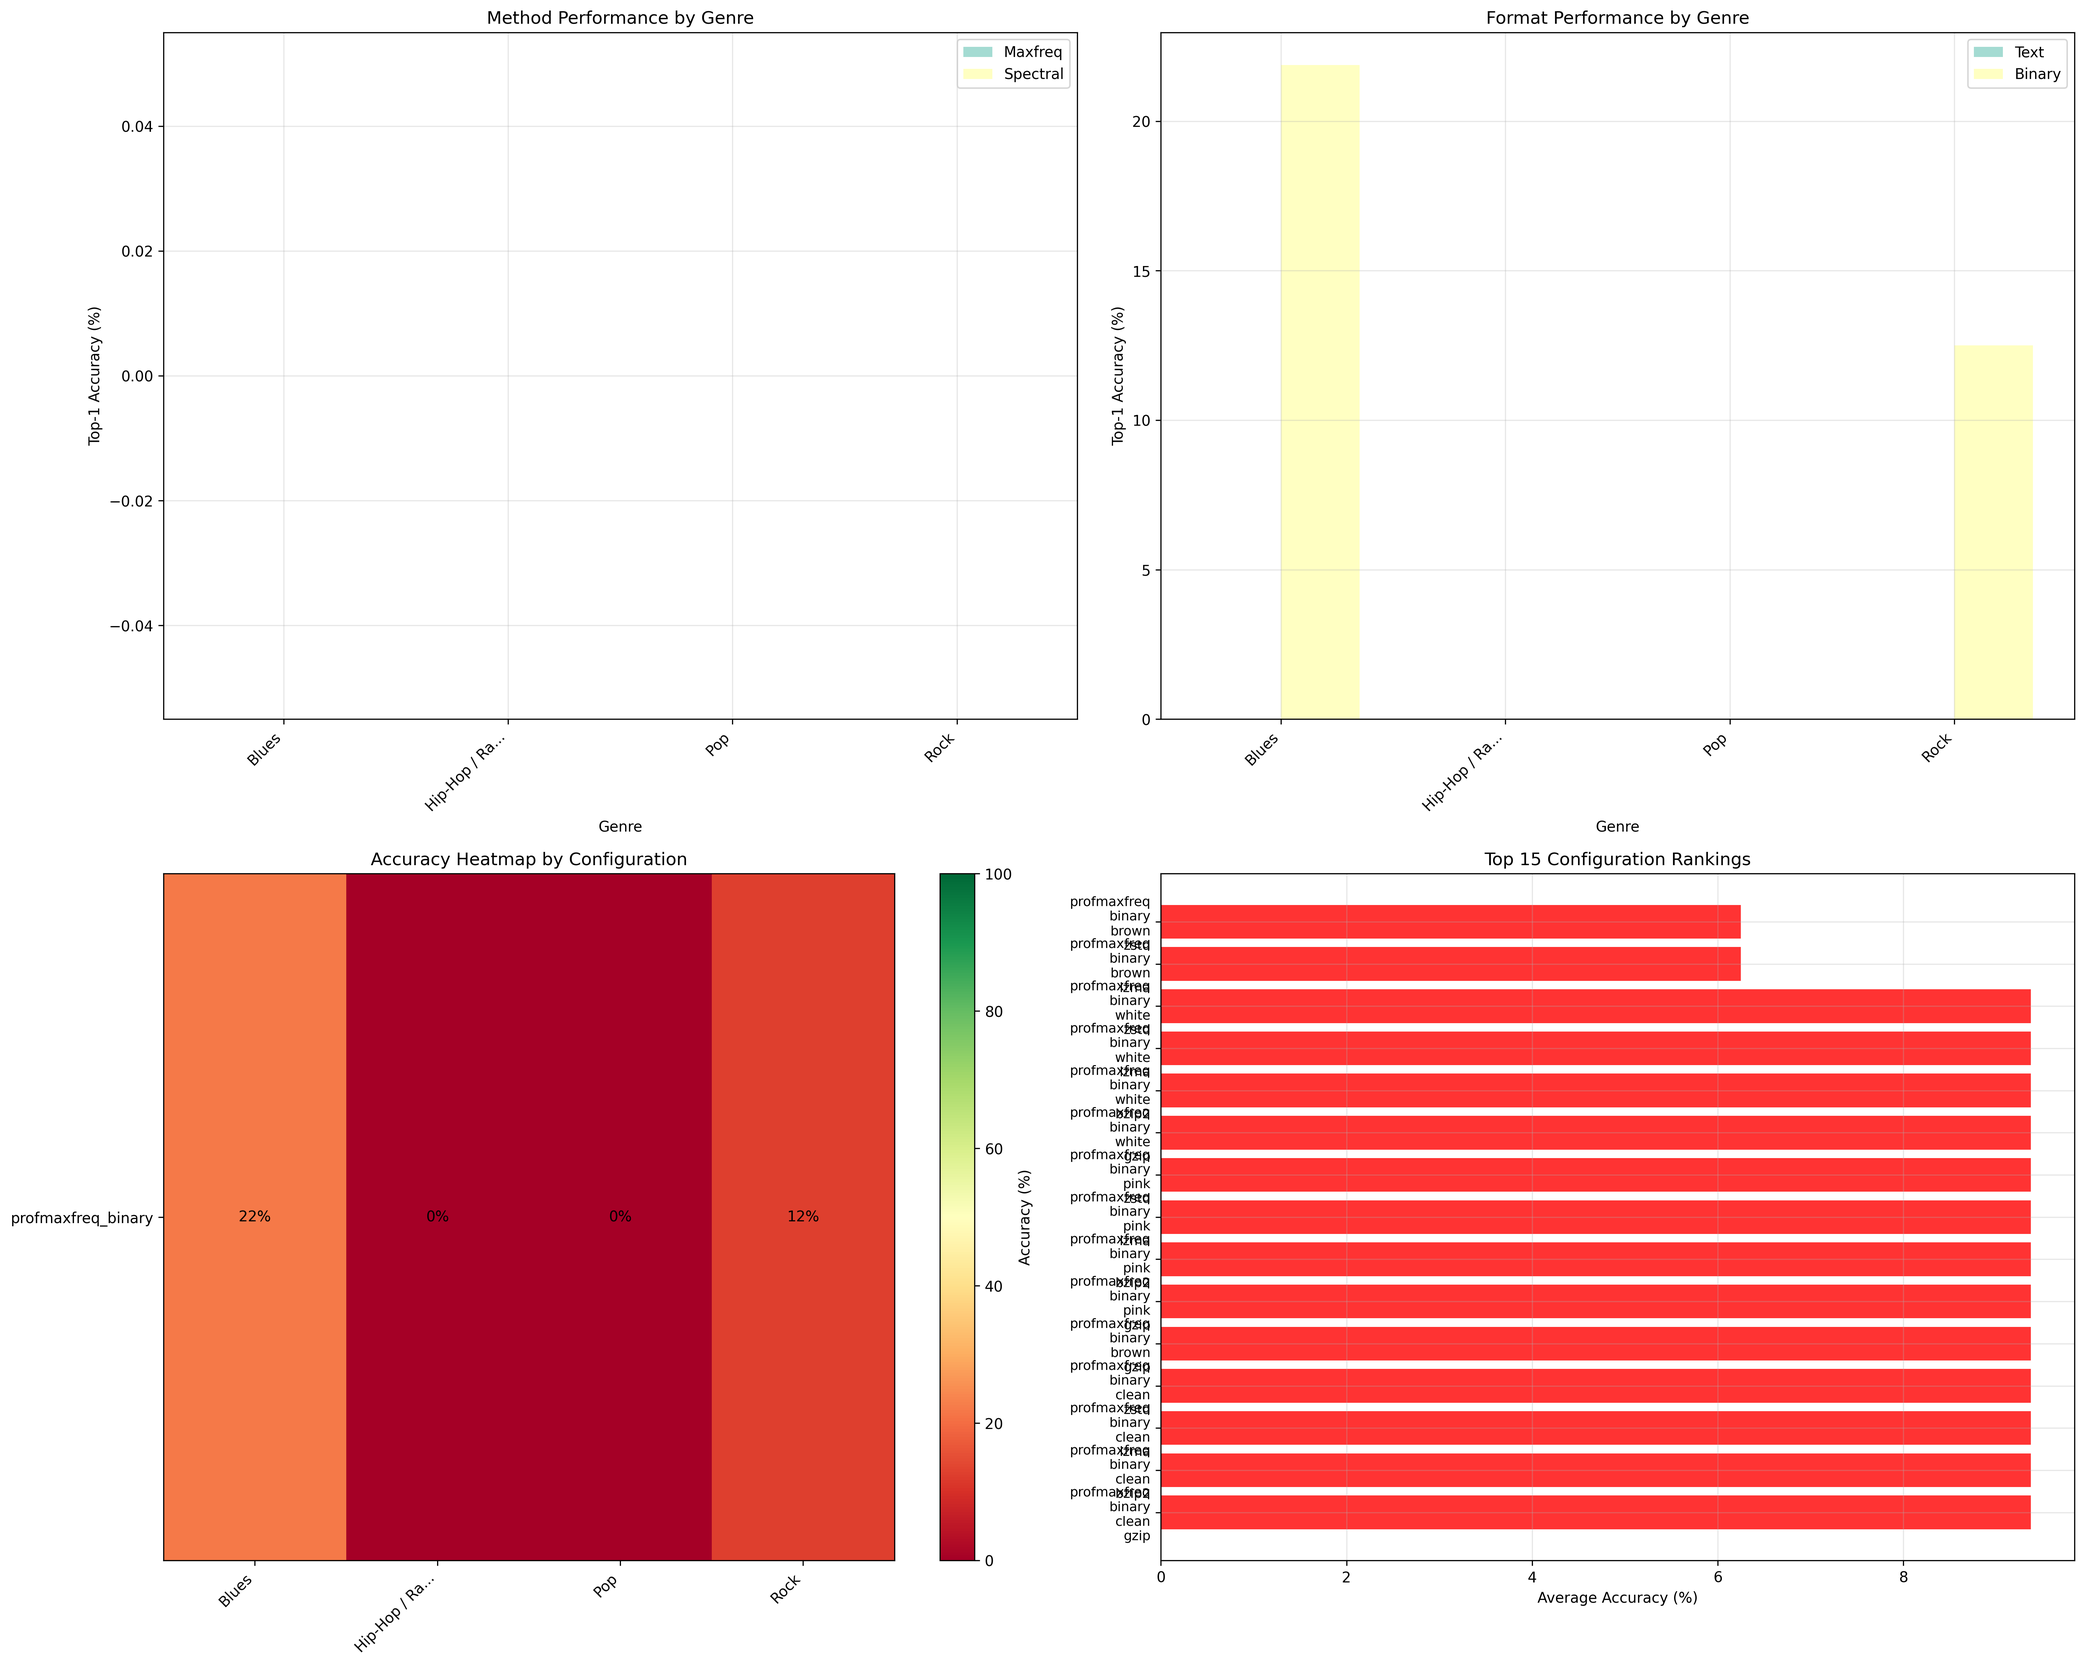
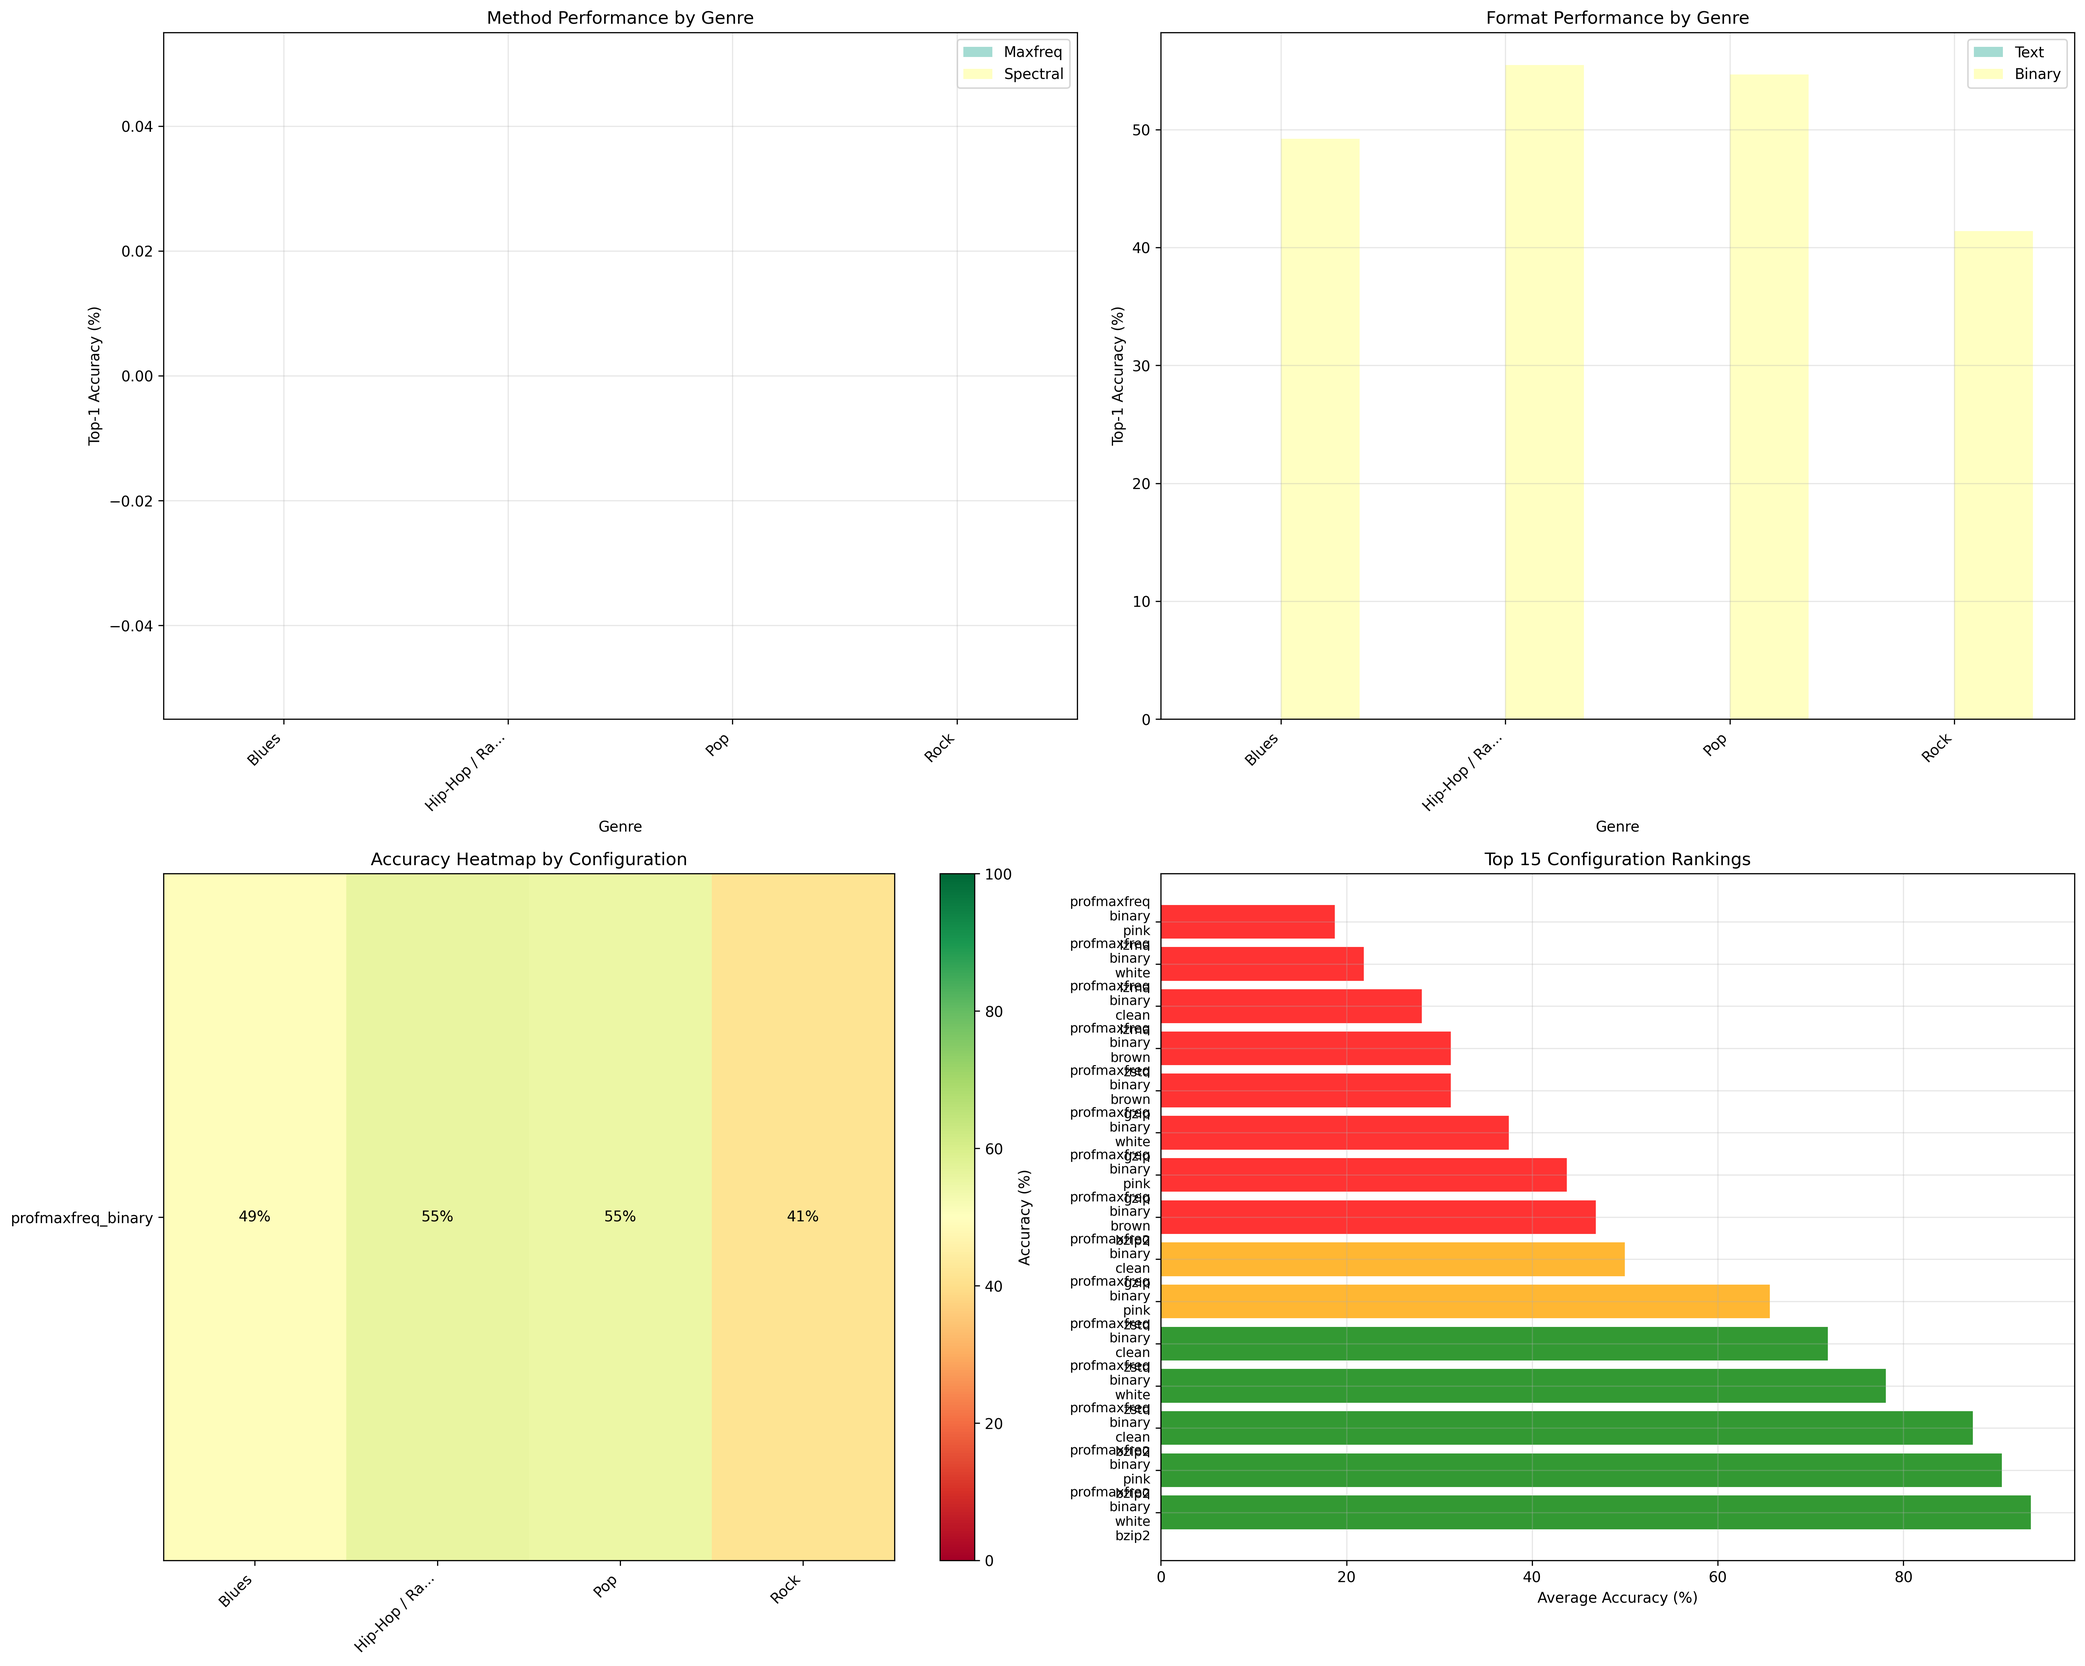
update with  samples rate conversion

diff --git a/src/core/FeatureExtractor.cpp b/src/core/FeatureExtractor.cpp
@@ -3,6 +3,7 @@
 #include "../../include/core/MaxFreqExtractor.h"
 #include "../../include/core/ProfMaxFreqExtractor.h"
 #include "../../include/core/WAVReader.h"
+#include "../../include/core/Resampler.h"
 
 #include <iostream>
 #include <fstream>
@@ -110,6 +111,40 @@ bool extractFeaturesFromFile(
         samples16bit[j] = static_cast<int16_t>(samples[j]);
     }
     
+    // For profmaxfreq -> need to resample to 44.1kHz if necessary
+    vector<int16_t> finalSamples = samples16bit;
+    int finalSampleRate = sampleRate;
+    
+    if (method == "profmaxfreq" && sampleRate != 44100) {
+        {
+            lock_guard<mutex> lock(coutMutex);
+            cout << "  Resampling from " << sampleRate << " Hz to 44100 Hz for profmaxfreq" << endl;
+        }
+        
+        // Convert samples to int32_t for resampling
+        vector<int32_t> samples32bit(samples16bit.begin(), samples16bit.end());
+        
+        // Resample to 44.1kHz
+        vector<int32_t> resampledSamples32 = Resampler::resample(samples32bit, sampleRate, 44100);
+        
+        // Convert back to int16_t
+        finalSamples.resize(resampledSamples32.size());
+        for (size_t j = 0; j < resampledSamples32.size(); j++) {
+            // Clamp to int16_t range
+            int32_t sample = resampledSamples32[j];
+            if (sample > INT16_MAX) sample = INT16_MAX;
+            if (sample < INT16_MIN) sample = INT16_MIN;
+            finalSamples[j] = static_cast<int16_t>(sample);
+        }
+        
+        finalSampleRate = 44100;
+        
+        {
+            lock_guard<mutex> lock(coutMutex);
+            cout << "  Resampling complete: " << finalSamples.size() << " samples at 44100 Hz" << endl;
+        }
+    }
+    
     // Extract features
     string featData;
     std::vector<std::vector<float>> featDataBin; // changed from vector<float>
@@ -117,21 +152,21 @@ bool extractFeaturesFromFile(
     
     if (method == "spectral") {
         if (useBinary) {
-            featDataBin = specExt.extractFeaturesBinary(samples16bit, channels, frameSize, hopSize, sampleRate);
+            featDataBin = specExt.extractFeaturesBinary(finalSamples, channels, frameSize, hopSize, finalSampleRate);
         } else {
-            featData = specExt.extractFeatures(samples16bit, channels, frameSize, hopSize, sampleRate);
+            featData = specExt.extractFeatures(finalSamples, channels, frameSize, hopSize, finalSampleRate);
         }
     } else if (method == "maxfreq") {
         if (useBinary) {
-            featDataBin = mfExt.extractFeaturesBinary(samples16bit, channels, frameSize, hopSize, sampleRate);
+            featDataBin = mfExt.extractFeaturesBinary(finalSamples, channels, frameSize, hopSize, finalSampleRate);
         } else {
-            featData = mfExt.extractFeatures(samples16bit, channels, frameSize, hopSize, sampleRate);
+            featData = mfExt.extractFeatures(finalSamples, channels, frameSize, hopSize, finalSampleRate);
         }
     } else if (method == "profmaxfreq") {
         if (useBinary) {
-            featDataBin = profExt.extractFeaturesBinary(samples16bit, channels, frameSize, hopSize, sampleRate);
+            featDataBin = profExt.extractFeaturesBinary(finalSamples, channels, frameSize, hopSize, finalSampleRate);
         } else {
-            featData = profExt.extractFeatures(samples16bit, channels, frameSize, hopSize, sampleRate);
+            featData = profExt.extractFeatures(finalSamples, channels, frameSize, hopSize, finalSampleRate);
         }
     }
     

diff --git a/src/utils/Resampler.cpp b/src/utils/Resampler.cpp
@@ -1,0 +1,69 @@
+#include "../../include/utils/Resampler.h"
+#include <iostream>
+#include <cmath>
+
+using namespace std;
+
+vector<int32_t> Resampler::resample(const vector<int32_t>& inputSamples, 
+                                   int inputSampleRate, 
+                                   int outputSampleRate) {
+    if (inputSampleRate == outputSampleRate) {
+        // No resampling needed
+        return inputSamples;
+    }
+
+    if (inputSamples.empty()) {
+        cerr << "Warning: Empty input samples for resampling" << endl;
+        return {};
+    }
+
+    // Calculate resampling ratio
+    double ratio = static_cast<double>(inputSampleRate) / outputSampleRate;
+    
+    // Calculate output size
+    size_t outputSize = static_cast<size_t>(inputSamples.size() / ratio);
+    
+    vector<int32_t> outputSamples;
+    outputSamples.reserve(outputSize);
+    
+    cout << "Resampling from " << inputSampleRate << " Hz to " << outputSampleRate 
+         << " Hz (ratio: " << ratio << ")" << endl;
+    cout << "Input samples: " << inputSamples.size() << ", Output samples: " << outputSize << endl;
+    
+    // Linear interpolation resampling
+    for (size_t i = 0; i < outputSize; i++) {
+        double sourceIndex = i * ratio;
+        size_t lowerIndex = static_cast<size_t>(floor(sourceIndex));
+        size_t upperIndex = lowerIndex + 1;
+        
+        if (upperIndex >= inputSamples.size()) {
+            upperIndex = inputSamples.size() - 1;
+            lowerIndex = upperIndex;
+        }
+        
+        if (lowerIndex == upperIndex) {
+            // No interpolation needed
+            outputSamples.push_back(inputSamples[lowerIndex]);
+        } else {
+            // Linear interpolation
+            double fraction = sourceIndex - lowerIndex;
+            int32_t interpolatedSample = interpolate(inputSamples[lowerIndex], 
+                                                   inputSamples[upperIndex], 
+                                                   fraction);
+            outputSamples.push_back(interpolatedSample);
+        }
+    }
+    
+    return outputSamples;
+}
+
+int32_t Resampler::interpolate(int32_t sample1, int32_t sample2, double fraction) {
+    // Linear interpolation: result = sample1 + fraction * (sample2 - sample1)
+    double result = sample1 + fraction * (sample2 - sample1);
+    
+    // Clamp to int32_t range to prevent overflow
+    if (result > INT32_MAX) return INT32_MAX;
+    if (result < INT32_MIN) return INT32_MIN;
+    
+    return static_cast<int32_t>(result);
+}

diff --git a/src/core/Resampler.cpp b/src/core/Resampler.cpp
@@ -1,0 +1,69 @@
+#include "../../include/core/Resampler.h"
+#include <iostream>
+#include <cmath>
+
+using namespace std;
+
+vector<int32_t> Resampler::resample(const vector<int32_t>& inputSamples, 
+                                   int inputSampleRate, 
+                                   int outputSampleRate) {
+    if (inputSampleRate == outputSampleRate) {
+        // No resampling needed
+        return inputSamples;
+    }
+
+    if (inputSamples.empty()) {
+        cerr << "Warning: Empty input samples for resampling" << endl;
+        return {};
+    }
+
+    // Calculate resampling ratio
+    double ratio = static_cast<double>(inputSampleRate) / outputSampleRate;
+    
+    // Calculate output size
+    size_t outputSize = static_cast<size_t>(inputSamples.size() / ratio);
+    
+    vector<int32_t> outputSamples;
+    outputSamples.reserve(outputSize);
+    
+    cout << "Resampling from " << inputSampleRate << " Hz to " << outputSampleRate 
+         << " Hz (ratio: " << ratio << ")" << endl;
+    cout << "Input samples: " << inputSamples.size() << ", Output samples: " << outputSize << endl;
+    
+    // Linear interpolation resampling
+    for (size_t i = 0; i < outputSize; i++) {
+        double sourceIndex = i * ratio;
+        size_t lowerIndex = static_cast<size_t>(floor(sourceIndex));
+        size_t upperIndex = lowerIndex + 1;
+        
+        if (upperIndex >= inputSamples.size()) {
+            upperIndex = inputSamples.size() - 1;
+            lowerIndex = upperIndex;
+        }
+        
+        if (lowerIndex == upperIndex) {
+            // No interpolation needed
+            outputSamples.push_back(inputSamples[lowerIndex]);
+        } else {
+            // Linear interpolation
+            double fraction = sourceIndex - lowerIndex;
+            int32_t interpolatedSample = interpolate(inputSamples[lowerIndex], 
+                                                   inputSamples[upperIndex], 
+                                                   fraction);
+            outputSamples.push_back(interpolatedSample);
+        }
+    }
+    
+    return outputSamples;
+}
+
+int32_t Resampler::interpolate(int32_t sample1, int32_t sample2, double fraction) {
+    // Linear interpolation: result = sample1 + fraction * (sample2 - sample1)
+    double result = sample1 + fraction * (sample2 - sample1);
+    
+    // Clamp to int32_t range to prevent overflow
+    if (result > INT32_MAX) return INT32_MAX;
+    if (result < INT32_MIN) return INT32_MIN;
+    
+    return static_cast<int32_t>(result);
+}

diff --git a/scripts/generate_plots_genres.py b/scripts/generate_plots_genres.py
@@ -26,7 +26,7 @@ class GenreAnalyzer:
         self.songs_genre_file = Path(songs_genre_file)
         
         # Configuration
-        self.methods = ["maxfreq", "spectral"]
+        self.methods = ["profmaxfreq", "maxfreq", "spectral"]
         self.formats = ["text", "binary"]
         self.noises = ["clean", "brown", "pink", "white"]
         self.compressors = ["gzip", "bzip2", "lzma", "zstd"]
@@ -150,7 +150,7 @@ class GenreAnalyzer:
             for format_type in self.formats:
                 for noise in self.noises:
                     for compressor in self.compressors:
-                        metrics_file = (self.results_dir / "compressors" / "youtube" / method / 
+                        metrics_file = (self.results_dir / "compressors" / "youtube_small" / method / 
                                        format_type / f"{noise}_{compressor}" / 
                                        f"accuracy_metrics_{compressor}.json")
                         
@@ -833,7 +833,7 @@ class GenreAnalyzer:
 def main():
     results_dir = Path("results/")
     songs_genre_file = Path("songs_genre.txt")
-    output_dir = Path("results/youtube_genre_analysis")
+    output_dir = Path("results/youtube_small_genre_analysis")
     
     if not results_dir.exists():
         print(f"Error: Results directory not found: {results_dir}")

diff --git a/include/core/Resampler.h b/include/core/Resampler.h
@@ -1,0 +1,36 @@
+#ifndef RESAMPLER_H
+#define RESAMPLER_H
+
+#include <vector>
+#include <cstdint>
+
+using namespace std;
+
+/**
+ * @brief Simple audio resampler for converting sample rates
+ */
+class Resampler {
+public:
+    /**
+     * @brief Resample audio data from one sample rate to another
+     * @param inputSamples Input audio samples
+     * @param inputSampleRate Original sample rate
+     * @param outputSampleRate Target sample rate
+     * @return Resampled audio samples
+     */
+    static vector<int32_t> resample(const vector<int32_t>& inputSamples, 
+                                   int inputSampleRate, 
+                                   int outputSampleRate);
+
+private:
+    /**
+     * @brief Linear interpolation between two samples
+     * @param sample1 First sample
+     * @param sample2 Second sample  
+     * @param fraction Interpolation fraction (0.0 to 1.0)
+     * @return Interpolated sample
+     */
+    static int32_t interpolate(int32_t sample1, int32_t sample2, double fraction);
+};
+
+#endif // RESAMPLER_H

diff --git a/include/utils/Resampler.h b/include/utils/Resampler.h
@@ -1,0 +1,36 @@
+#ifndef RESAMPLER_H
+#define RESAMPLER_H
+
+#include <vector>
+#include <cstdint>
+
+using namespace std;
+
+/**
+ * @brief Simple audio resampler for converting sample rates
+ */
+class Resampler {
+public:
+    /**
+     * @brief Resample audio data from one sample rate to another
+     * @param inputSamples Input audio samples
+     * @param inputSampleRate Original sample rate
+     * @param outputSampleRate Target sample rate
+     * @return Resampled audio samples
+     */
+    static vector<int32_t> resample(const vector<int32_t>& inputSamples, 
+                                   int inputSampleRate, 
+                                   int outputSampleRate);
+
+private:
+    /**
+     * @brief Linear interpolation between two samples
+     * @param sample1 First sample
+     * @param sample2 Second sample  
+     * @param fraction Interpolation fraction (0.0 to 1.0)
+     * @return Interpolated sample
+     */
+    static int32_t interpolate(int32_t sample1, int32_t sample2, double fraction);
+};
+
+#endif // RESAMPLER_H

diff --git a/scripts/generate_plots.py b/scripts/generate_plots.py
@@ -26,7 +26,7 @@ class ResultsAnalyzer:
         self.dataset = dataset  # 'youtube', 'small', or 'both'
         
         # Configuration
-        self.methods = ["maxfreq", "spectral"]
+        self.methods = ["profmaxfreq", "maxfreq", "spectral"]
         self.formats = ["text", "binary"]
         self.noises = ["clean", "brown", "pink", "white"]
         self.compressors = ["gzip", "bzip2", "lzma", "zstd"]
@@ -790,7 +790,7 @@ class ResultsAnalyzer:
 
 def main():    
     # Choose which dataset to analyze: 'youtube', 'small', or 'both'
-    dataset = 'youtube'  # Change this to 'small' or 'both' as needed
+    dataset = 'youtube_small'  # Change this to 'small' or 'both' as needed
     
     results_dir = Path("results/")
     output = Path(f"results/plots_{dataset}/")
